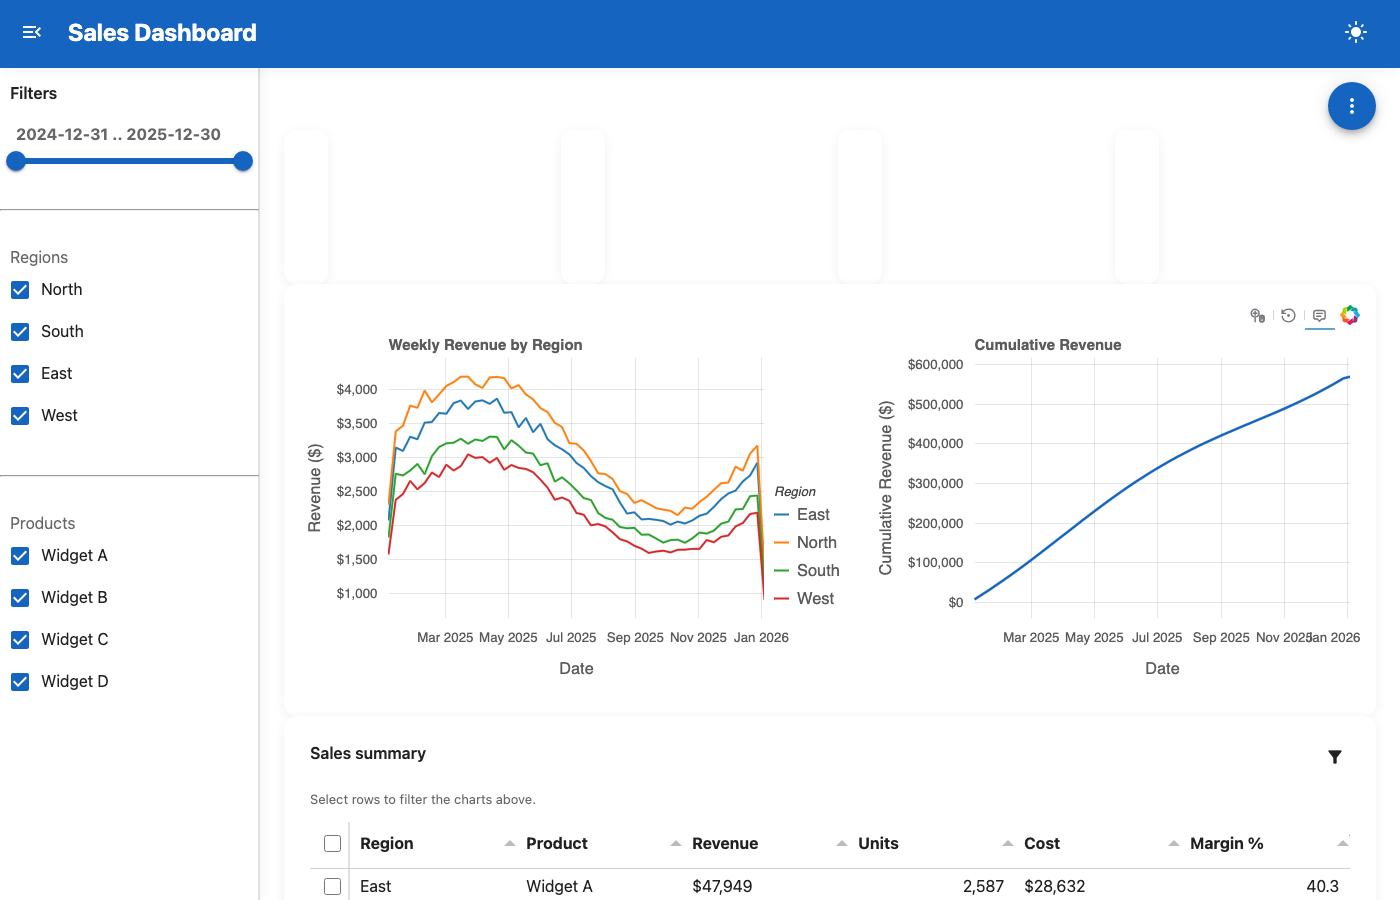
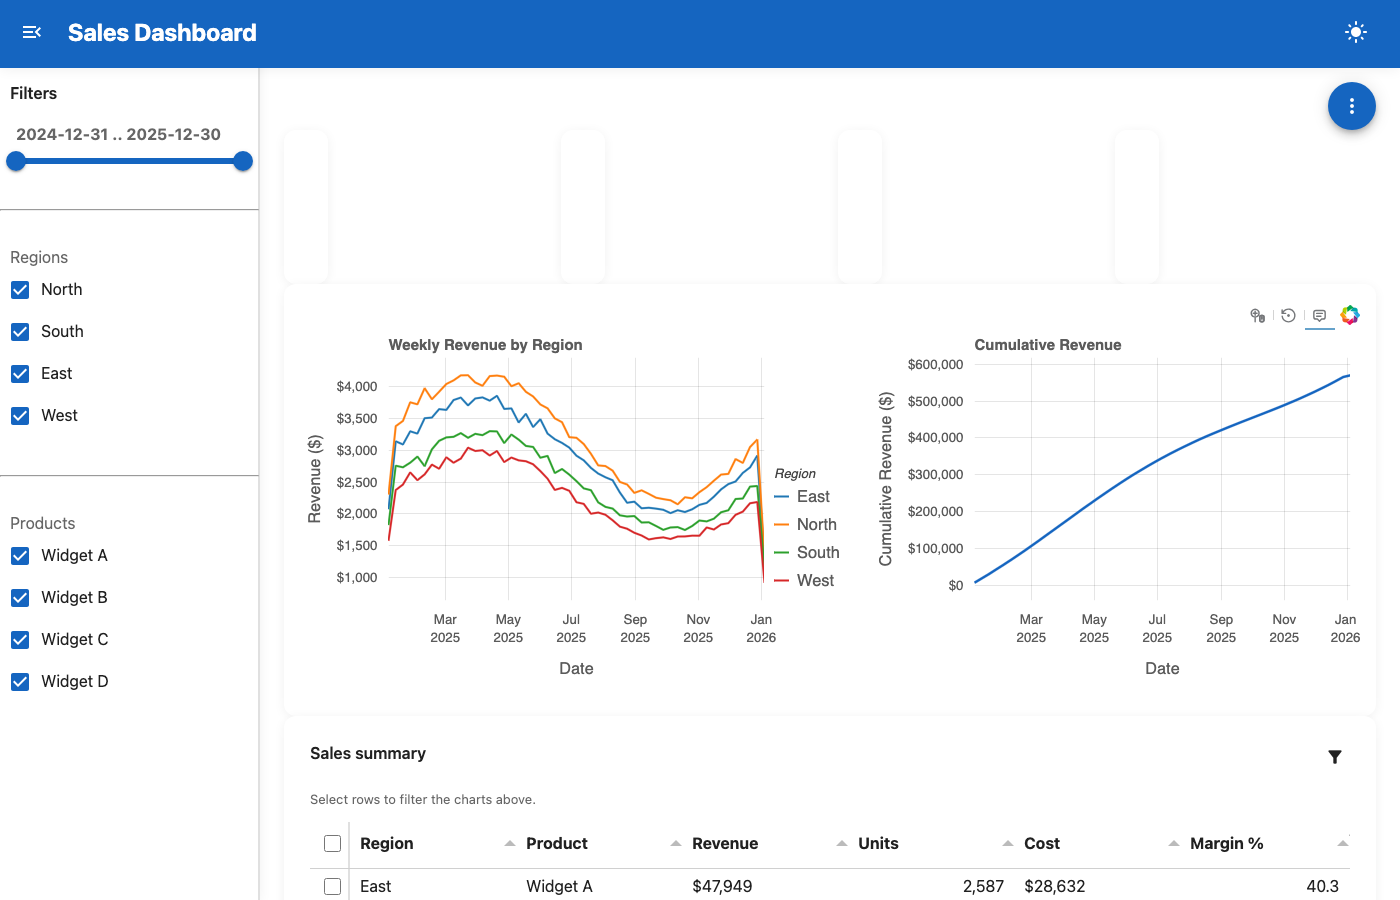
fix: dashboard example KPI and date labels, and wait for deferred components in docs screenshots

Changed region(s): [[0.215, 0.4044, 0.9521, 0.6844], [0.7064, 0.6844, 0.9521, 0.7156], [0.3071, 0.6844, 0.5529, 0.7156]]

diff --git a/developing-with-holoviz/skills/panel/examples/dashboard.py b/developing-with-holoviz/skills/panel/examples/dashboard.py
@@ -18,7 +18,7 @@ import pandas as pd
 import panel as pn
 import panel_material_ui as pmui
 import param
-from bokeh.models import NumeralTickFormatter
+from bokeh.models import DatetimeTickFormatter, NumeralTickFormatter
 
 pn.extension("tabulator", throttled=True, defer_load=True, loading_indicator=True)
 
@@ -114,11 +114,20 @@ def generate_sales_data():
 REGION_COLORS = {"North": "#ff7f0e", "South": "#2ca02c", "East": "#1f77b4", "West": "#d62728"}
 
 KPI_TOOLTIPS = {
-    "revenue": "Total revenue across the current selection.",
+    "revenue": "Total revenue across the current selection, in thousands of dollars.",
     "units": "Total units sold across the current selection.",
     "margin": "Gross margin = (Revenue − Cost) / Revenue.",
     "aov": "Average revenue per record in the current selection.",
 }
+
+
+def month_ticks() -> DatetimeTickFormatter:
+    """Month names on a date axis, with the year once under the first tick.
+
+    Full "Mar 2025" labels run together on a half-width chart. Each plot gets its
+    own formatter, since a Bokeh model can belong to only one session's document.
+    """
+    return DatetimeTickFormatter(months="%b", context="%Y")
 
 
 class SalesDashboard(pn.viewable.Viewer):
@@ -143,7 +152,7 @@ class SalesDashboard(pn.viewable.Viewer):
         # KPI Trend indicators — create once, update data via watcher
         trend_opts = dict(sizing_mode="stretch_width", height=120, plot_type="area")
         self._revenue_trend = pn.indicators.Trend(
-            name="Revenue",
+            name="Revenue ($K)",
             plot_color="#1565c0",
             **trend_opts,
         )
@@ -420,6 +429,7 @@ class SalesDashboard(pn.viewable.Viewer):
                 ],
                 xlabel="Date",
                 ylabel="Revenue ($)",
+                xformatter=month_ticks(),
                 yformatter=NumeralTickFormatter(format="$0,0"),
                 gridstyle={"grid_line_alpha": 0.3},
                 show_grid=True,
@@ -466,6 +476,7 @@ class SalesDashboard(pn.viewable.Viewer):
             ],
             xlabel="Date",
             ylabel="Cumulative Revenue ($)",
+            xformatter=month_ticks(),
             yformatter=NumeralTickFormatter(format="$0,0"),
             gridstyle={"grid_line_alpha": 0.3},
             show_grid=True,
@@ -519,8 +530,10 @@ class SalesDashboard(pn.viewable.Viewer):
         ).round(1)
         monthly["aov"] = (monthly["revenue"] / monthly["units"]).round(2)
 
-        self._revenue_trend.data = {"x": monthly["date"], "y": monthly["revenue"]}
-        self._revenue_trend.value = int(df["revenue"].sum())
+        # In thousands: Trend formats its value with Bokeh's BasicTickFormatter,
+        # which switches to scientific notation from 100,000 (5.698e+5).
+        self._revenue_trend.data = {"x": monthly["date"], "y": monthly["revenue"] / 1000}
+        self._revenue_trend.value = round(df["revenue"].sum() / 1000, 1)
 
         self._units_trend.data = {"x": monthly["date"], "y": monthly["units"]}
         self._units_trend.value = int(df["units"].sum())

diff --git a/scripts/build_stubs.py b/scripts/build_stubs.py
@@ -816,8 +816,13 @@ def generate_example_screenshots(examples: list[Example], skill_dir: Path) -> di
             for ex in examples:
                 url = f"http://localhost:5099/{ex.slug}"
                 try:
-                    page.goto(url, timeout=10000)
-                    page.wait_for_timeout(3000)
+                    page.goto(url, wait_until="networkidle", timeout=30000)
+                    # With defer_load or loading_indicator, each component shows a
+                    # .pn-loading overlay until it renders, and a fixed wait can beat it.
+                    page.wait_for_function(
+                        "() => !document.querySelector('.pn-loading')", timeout=30000
+                    )
+                    page.wait_for_timeout(500)  # let canvases finish painting
 
                     screenshot_dir = ASSETS_DIR / "examples"
                     screenshot_dir.mkdir(parents=True, exist_ok=True)

diff --git a/CHANGELOG.md b/CHANGELOG.md
@@ -93,6 +93,11 @@ in-progress notes so it is skipped by the extraction.
 
 ### Changed
 
+- **Dashboard example and its docs screenshot** — the Revenue KPI reads in thousands, since
+  `Trend` showed `5.698e+5` for anything over 100,000, and both charts label dates by month with
+  the year once below, where "Mar 2025May 2025…" ran together. The docs build now waits for
+  each `.pn-loading` overlay to clear before taking the screenshot, instead of a fixed 3 s that
+  captured the KPI cards before `defer_load` filled them.
 - **Explanatory videos moved into `outreach`** — `explanatory-video` was a sub-skill of its
   own that read `outreach/making-a-demo-video.md` for its HTML contract and export, so it's
   now `outreach/making-an-explanatory-video.md` beside the reference it builds on. The
